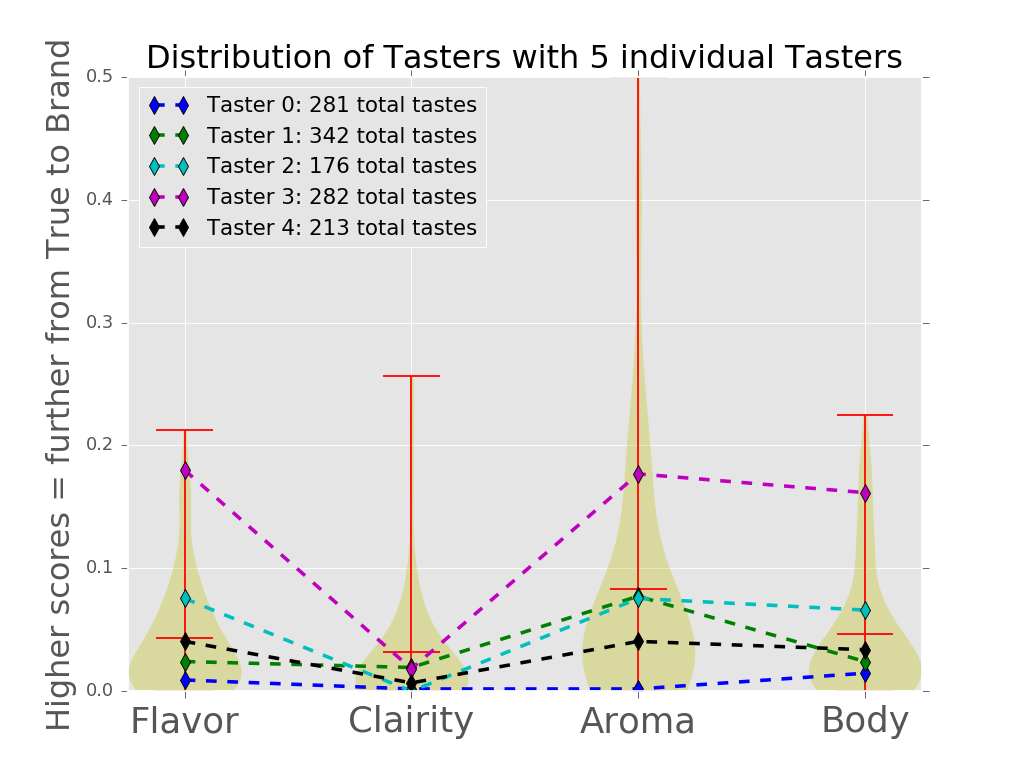
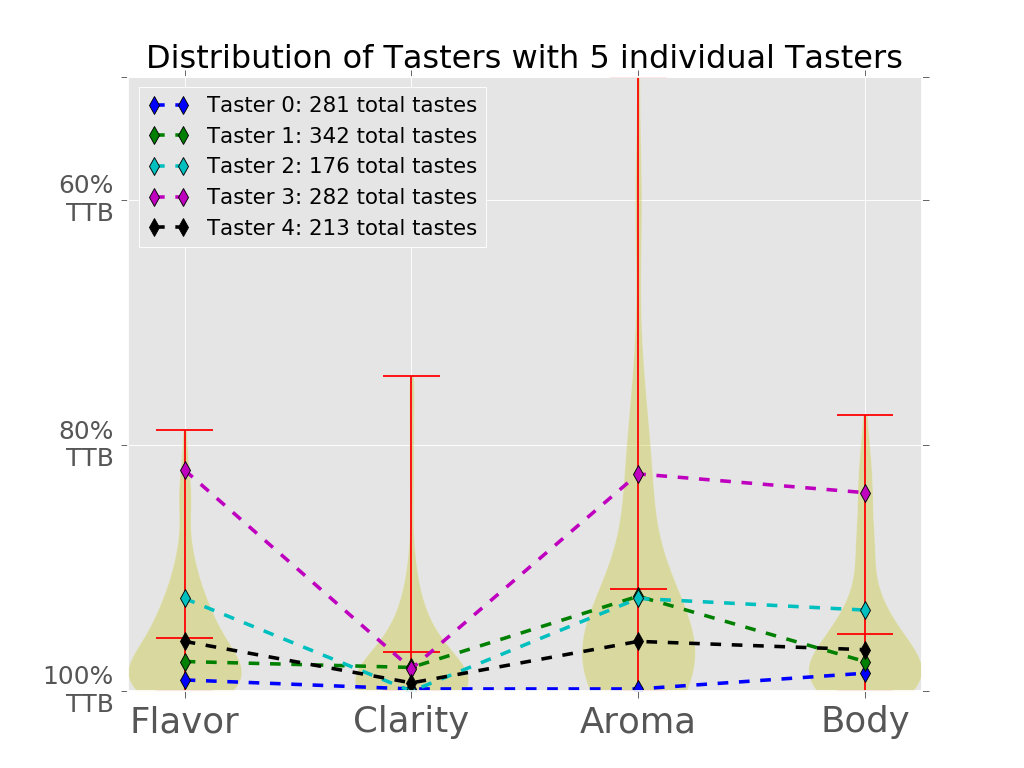
updated figures

Changed region(s): [[0.0312, 0.0312, 0.125, 0.9688], [0.3438, 0.9062, 0.4688, 0.9688]]

diff --git a/4_features/pear_class.py b/4_features/pear_class.py
@@ -19,7 +19,7 @@ class VisualizeTasting(object):
         self.sci = []
         self.sci_big = []
         self.colors =  ['b','g','c','m','k'] # colors used to plot
-        self.labels = ['Flavor','Clairity','Aroma','Body']
+        self.labels = ['Flavor','Clarity','Aroma','Body']
 
 
         plt.style.use('ggplot')
@@ -106,8 +106,9 @@ class VisualizeTasting(object):
         plt.violinplot(vio_means, showmeans=True,showmedians=False)
 
         # sets the axis and labels
-        plt.xticks([1,2,3,4],['Flavor','Clairity','Aroma','Body'],fontsize=20)
-        plt.ylabel('Higher scores = further from True to Brand',fontsize=18)
+        plt.xticks([1,2,3,4],['Flavor','Clarity','Aroma','Body'],fontsize=20)
+        # plt.ylabel('Higher scores = further from True to Brand',fontsize=18)
+        plt.yticks([0,.2,.4,.5],['100%\nTTB','80%\nTTB', '60%\nTTB',''],fontsize = 14)
         plt.title('Distribution of Tasters with 5 individual Tasters', fontsize = 18)
 # ------------------------------------------------------------------
 # ------------------------------------------------------------------
@@ -194,7 +195,7 @@ class VisualizeTasting(object):
 
         f, axarr = plt.subplots(4, figsize = (7,8), sharex=True, sharey = False)
         axarr[0].set_title('Average tasting score for last {} tastings'.format(last),fontsize = 18)
-        labels = ['Flavor','Clairity','Aroma','Body']
+        labels = ['Flavor','Clarity','Aroma','Body']
         for i, label in enumerate(labels):
             q_most_recent = self.quals[i].T.iloc[-last:,:]
             most_recent_numbers = q_most_recent.index.tolist()
@@ -238,7 +239,7 @@ class VisualizeTasting(object):
         # finds the taster ids in the most recent brewnumber
         tasters = self.quals[0][most_recent].dropna().index.tolist()
 
-        labels = ['Flavor','Clairity','Aroma','Body']
+        labels = ['Flavor','Clarity','Aroma','Body']
 
         taster_scores = [] # list to turn into a data frame
         for taster in tasters:
